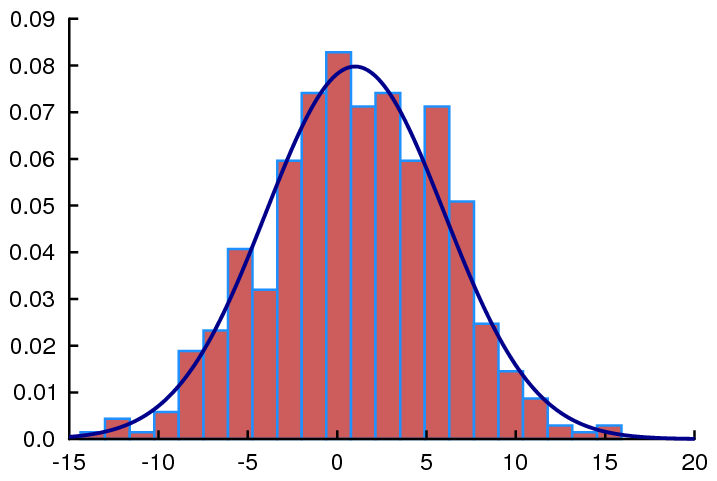
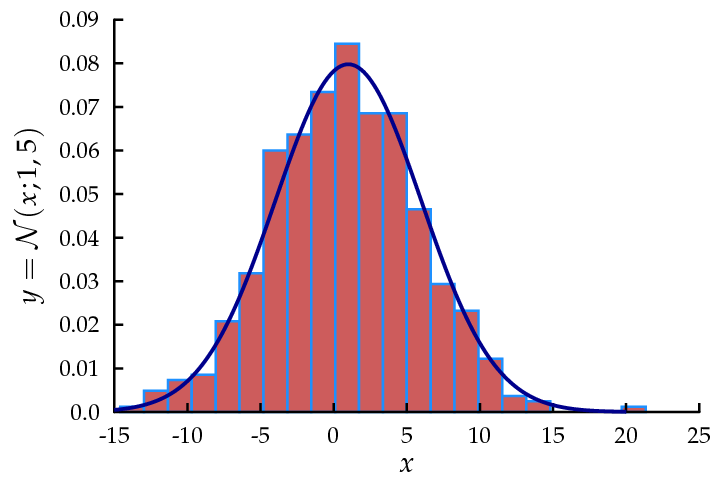
+readme+syntax

Changed region(s): [[0.0, 0.0, 1.0, 0.9979], [0.0, 0.7796, 0.0614, 0.842], [0.9512, 0.8108, 0.9819, 0.842]]

diff --git a/README.md b/README.md
@@ -16,13 +16,15 @@ The following `R` script:
 draw = rnorm(500,mean=1,sd=5)
 x    = seq(-15,20,len=200)
 y 	 = dnorm(x,mean=1,sd=5)
-#
+# The Matlab-like syntax below is extracted and treated by S2G
 hist(draw,'normalization','pdf','facecolor','indianred','edgecolor','dodgerblue')
 hold on
 plot(x,y,'-b','linewidth',0.5)
+xlabel('$x$')
+ylabel('$y=\mathcal N(x;1,5)$')
 ```
 
-will generate the figure below:
+run with `S2G` will generate the figure below:
 ![introtest.R](/examples/R/introtest_plot1_g.png);
 
 ### The workflow
@@ -30,9 +32,9 @@ will generate the figure below:
 Roughly, the workflow is as follows:
 
 1. "Parse" the script (`.jl`, `.m` or `.R` so far),
-2. Separate code for displaying, translate it and generate corresponding `.gle` code, add lines to output data needed by plots as temporary `.dat` files,
-3. Run the temporary script: `.dat` files are generated,
-4. Run GLE: `.pdf` or `.png` files are generated,
+2. Generate temporary script based on original script replacing "display lines" by lines outputting relevant data files,
+3. Generate temporary GLE script corresponding to the "display lines",
+3. Run the temporary script: `.dat` files are generated, run the temporary GLE, `.pdf` or `.png` files are generated,
 5. Remove temporary files (unless option `-dev` is chosen)
 
 **Rem**: if `-dev` option is chosen, one can have a look at the temporary files that have been created (useful for debugging), the temporary files are hidden by default with names starting with `.__`, if you can't see them use `ls -a` in the appropriate directory.
@@ -44,75 +46,50 @@ Roughly, the workflow is as follows:
 - A working version of `Python 2.x` (tested with `2.7.6`),
 - A working version of GLE ([Link](http://glx.sourceforge.net/index.html)),
 - A working version of `pdflatex` (tested with `pi-2.6-x`)
-- A working version of Julia,Octave or Matlab (depending on what you want to use),
+- A working version of one of **Julia**, **Octave**, **Matlab** or **R** (depending on what you want to use),
 
-I'm assuming that your `$PATH` variable has been updated accordingly so that you can call each of those with `gle`, `julia`, `octave` and `matlab`.
+I'm assuming that your `$PATH` variable has been updated accordingly so that you can call each of those in the terminal respectively with `gle`, `julia`, `octave`, `matlab` or `R`.
 
-If you intend to use transparency (`fill` command), then GLE needs to be able to run with a `cairo` option, nothing to be done on Linux (tested on Fedora) or OSX (tested on Yosemite) but I haven't tested it on Windows. Also a warning may be issued if you're using this in the draft mode (without the `-tex` option), and the font might be changed to agree with cairo. Compile with `-tex` option to get rid of that warning.
+**Side Remark** (*Ignore if using OSX or Linux*), if you intend to use transparency (see `fill` command), then GLE needs to be able to run with `cairo` option, nothing to be done on Linux (tested on Fedora) or OSX (tested on Yosemite) but I haven't tested it on Windows (but it should also work). \\
+A warning may be issued if you're using transparency in the draft mode (without the `-tex` option), and the font might be changed to agree with cairo. You can safely ignore this and if it bothers you, compile with `-tex` option.
 
-## Quick example of how to run S2G
+### Quick notes on installing GLE
+
+Excellent instructions can be found on [their website](http://glx.sourceforge.net/downloads/downloads.html). I have personally tried:
+
+1. on Fedora 20 compiling from source with gcc 4.8.3, worked seamlessly.
+2. on OSX 10.10
+2.1 from `.dmg`, needed ghostscript then worked seamlessly,
+2.2 from source with gcc (Apple LLVM 6.0) a small thing needs be done (patch found on [macports](https://trac.macports.org/attachment/ticket/41760/patch-hash-map.diff)):
+- comment line 54 of `PATH/src/gle/tokens/StringKeyHash.h`
+- uncomment line 57
+- then run as usual: `make` (takes a bit of time) then `make install`.
+
+### Installing S2G
+
+Just download the code from GitHub or clone it, move it to an appropriate directory and optionally add an alias to your `.bash_profile` so that `s2g` can be called directly from your terminal.
+
+## Running S2G
 
 With (say) `Julia` go to the `examples/julia` directory and run
 
 ```Bash
-../../s2g ex_basic.jl -tex
+s2g ex_basic.jl -tex
 ```
 
 It takes a few seconds to compile the figure since it must run `pdflatex` to generate the labels etc. Note that by default (without option), TeX is disabled so that one can have a quick look at figures (or if your figure has no need for TeX):
 
 ```Bash
-../../s2g ex_basic.jl
+s2g ex_basic.jl
 ```
 
 If you want a png output, use the option `-png` eg:
 
 ```Bash
-../../s2g ex_basic.jl -tex -png
+s2g ex_basic.jl -tex -png
 ```
 
-## Understanding the workflow with an example
-
-Running the above command with the `-dev` option generates the following files:
-
-(1) `.__ex_basic_script_tmp.jl` whose core is
-```Julia
-x = linspace(-5,5,500)
-y = exp(-(x).^2/2)
-x__ = x
-y__ = y
-c__ = [x__[:] y__[:]]
-writecsv(".__datplot1_1.dat",c__)
-```
-so you can see that the script that ends up being run only aims at producing `.dat` files on which the plots will be based. 
-
-(2) `.__ex_basic_plot1_g.gle` whose core is
-```
-begin graph
-	scale auto
-	data ".__datplot1_1.dat" d1=c1,c2
-	d1 lstyle 0  color darkblue  lwidth 0.06  msize 0.2 
-	xsubticks off 
-	ysubticks off
-	x2axis off
-	y2axis off
-	title "The std normal distribution"
-	xtitle "$x$"
-	ytitle "$/mathcal N(x;0,1)$"
-end graph
-```
-this is the GLE syntax which will generate one plot based on the given `.dat` file.
-
-(3) `.__datplot1_1.dat` which contains lines like
-```
--3.6773547094188377,.0011575277138466272
--3.657314629258517,.001245802786172585
--3.637274549098196,.0013402715011302559
--3.6172344689378755,.0014413247808285163
--3.5971943887775546,.0015493748758152082
-```
-that were generated after running the temporary script file.
-
-Compiling the GLE file above will then generate the desired `.pdf` file.
+The aim of this hack is to use `Matlab`-like syntax so if you're used to it, there is not much to learn. The document `SYNTAX.md` available in this repo aims at listing some of the commands that are currently available, the ones that aren't and what's on the way.
 
 ## An example in Octave/Matlab
 
@@ -163,6 +140,51 @@ which should generate the figure below:
 ![smalltest2.m](/examples/octavematlab/smalltest2_plot1_g.png);
 
 **Remark**: as you may have realized, `fillbetween` is not part of Matlab syntax, it's just a useful extension here, and the idea is to have a `Matlab-like` syntax but without restriction for a bit of syntactic sugar (remember, this does not have the ambition to be an award winning software (...) but rather to be a useful hack).
+
+## Understanding the workflow with an example
+
+Running the above command with the `-dev` option generates the following files:
+
+(1) `.__ex_basic_script_tmp.jl` whose core is
+```Julia
+x = linspace(-5,5,500)
+y = exp(-(x).^2/2)
+x__ = x
+y__ = y
+c__ = [x__[:] y__[:]]
+writecsv(".__datplot1_1.dat",c__)
+```
+so you can see that the script that ends up being run only aims at producing `.dat` files on which the plots will be based. 
+
+(2) `.__ex_basic_plot1_g.gle` whose core is
+```
+begin graph
+	scale auto
+	data ".__datplot1_1.dat" d1=c1,c2
+	d1 lstyle 0  color darkblue  lwidth 0.06  msize 0.2 
+	xsubticks off 
+	ysubticks off
+	x2axis off
+	y2axis off
+	title "The std normal distribution"
+	xtitle "$x$"
+	ytitle "$/mathcal N(x;0,1)$"
+end graph
+```
+this is the GLE syntax which will generate one plot based on the given `.dat` file.
+
+(3) `.__datplot1_1.dat` which contains lines like
+```
+-3.6773547094188377,.0011575277138466272
+-3.657314629258517,.001245802786172585
+-3.637274549098196,.0013402715011302559
+-3.6172344689378755,.0014413247808285163
+-3.5971943887775546,.0015493748758152082
+```
+that were generated after running the temporary script file.
+
+Compiling the GLE file above will then generate the desired `.pdf` file.
+
 
 ## Additional comments
 ### Use of transparency

diff --git a/SYNTAX.md b/SYNTAX.md
@@ -1,0 +1,67 @@
+# S2G syntax
+
+## 2D Plots
+
+### Basic Syntax
+#### PLOT
+**Quick note for Matlab/Octave users**, noticeable differences:
+- multi graphs not accepted (e.g., `plot(x1,y1,x2,y2)`),
+- x11 colors implemented (e.g., `...,'colors','cornflowerblue'`)
+
+Accepted format
+```Matlab
+plot(x,...)
+plot(x,y,...)
+```
+where `...` goes for options, accepted options are:
+- **line style**: `-` (line), `:` (dotted), `-.` (dashed-dotted), `--` (dashed),
+- **marker symbols**: (after line style symbol if any) `+`, `o`, `*`, `x`, `s` (square), `^` (triangle),
+- **line style+color**: append a color to one of the line style symbol so for example `-r` will produce a red line, basic colors are `r`, `g`, `b`,`c` (cyan), `m` (magenta), `y`, `k` (black), `w`,
+- **color**: using the name `color` followed by either a normalized RGB triplet (eg: `...,'color',[0.1 0.5 0.7],...`) or an X11 name (eg: `...,'color','salmon',...)
+- **line width**: using the name `linewidth` followed by a non-negative number (note that a bit of fiddling might be necessary to find the proper number, it does not exactly match Matlab's width),
+- **marker size**: using the name `markersize` followed by a non-negative number, same remark applies,
+- (!) **marker face color**: the color is ignored, it just acts as a switch and the color will be the same as that of the line
+
+**Examples**:
+```Matlab
+plot(x,y,'-+r','linewidth',0.5)
+plot(x,y,':','color','cornflowerblue')
+```
+
+#### LEGEND
+Accepted format
+```Matlab
+legend('str1','str2',...)
+```
+where `...` goes for options, accepted options are:
+- **location** using the name `location` followed by combined words like `southeast`, `northwest` etc. Shorts are accepted eg: `nw`.
+- **box off** using the name `boxoff` will remove the legend bounding box.
+- **offset** using the name `offset` followed by an array `[a b]` will offset the legend from the graph box by the specified offset. 
+
+#### HIST
+Accepted format
+```Matlab
+hist(x,...)
+```
+where `...` goes for options, accepted options are:
+- **number of bins** just an integer or the name `nbins` followed by an integer,
+- **normalization** using the name `normalization` followed by one of `probability` (height=count/totcount), `pdf` (h=count/totcount*binwidth), `countdensity` (height=count/width) (default is just the count),
+- **face color** using the name `color` or `facecolor` followed by a matlab short (`rgbmc...`) or an X11 name or an RGB triplet or an RGBA (with transparency eg `[0.1 0.5 0.7 0.3]` will have alpha set to 30%). An alternative for transparency is to use an X11 name followed by `alpha` and a number between 0 and 1 e.g.: `...,'facecolor','cornflowerblue','alpha',0.7,...`.
+- **edge color** using the name `edgecolor` followed by a matlab short or an X11 name or an RGB triplet
+
+#### FILL
+
+### Extra syntax
+#### FILLBETWEEN
+
+### Unstable / not available yet
+
+- Plot::markerfacecolor
+- Legend::offset (outside positions need fig resize)
+- Hist::cumulative normalization not dealt with (eg: `...,'normalization','cdf'`)
+
+## 3D Plots
+
+### Not available yet
+
+Everything, 3D plots have not yet been considered. Contours should come pretty quickly.
